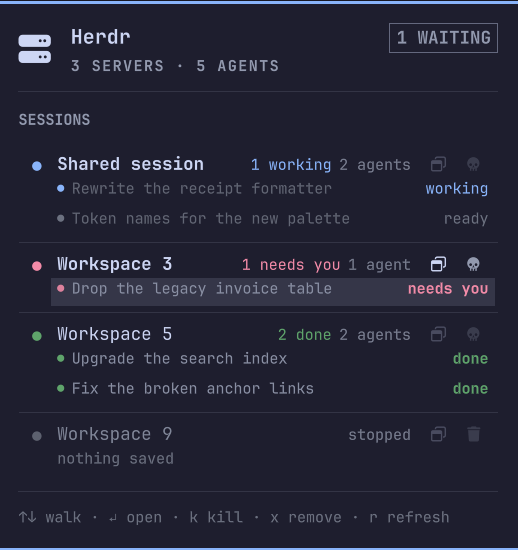
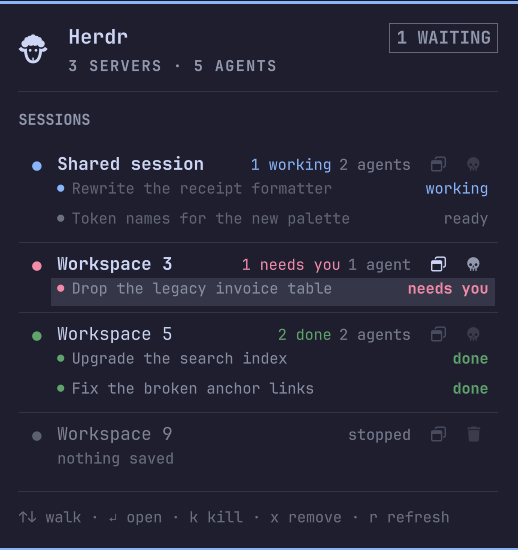
Put a sheep's head on the pill
nf-md-sheep in place of the server glyph, in the bar and at the head of the
panel: the thing being herded, rather than the machine running it. Past the
BMP, so it is written as a surrogate pair the way iconKill already was, and
the property and id are iconHerd/herdIcon now that neither is about a server.

The badge keeps the placement it had. It takes a bite out of the sheep's ear
where it only clipped a corner of the old rectangle, and that reads fine.

Screenshots reshot on Catppuccin to match.

Changed region(s): [[0.0309, 0.0309, 0.3089, 0.1545], [0.3707, 0.0927, 0.556, 0.1545]]

diff --git a/Panel.qml b/Panel.qml
@@ -44,7 +44,10 @@ Panel {
   readonly property string script:
     Qt.resolvedUrl("bin/herdr-sessions").toString().replace(/^file:\/\//, "")
 
-  readonly property string iconServer: "\uF233"
+  // nf-md-sheep, U+F0CC6: the herd, rather than the machine running it. Past
+  // the point where a four-digit `\u` escape reaches, so it is written as its
+  // surrogate pair for the same reason iconKill below is.
+  readonly property string iconHerd: "\uDB83\uDCC6"
   readonly property string iconDot: "\uF111"
   readonly property string iconOpen: "\uF2D2"
   readonly property string iconTrash: "\uF1F8"
@@ -711,9 +714,9 @@ Panel {
     iconComponent: Component {
       Item {
         Text {
-          id: serverIcon
+          id: herdIcon
           anchors.centerIn: parent
-          text: root.iconServer
+          text: root.iconHerd
           textFormat: Text.PlainText
           font.family: root.fontFamily
           font.pixelSize: Style.bar.iconFont
@@ -730,9 +733,9 @@ Panel {
         // exists to say how many as much as it says which colour.
         Rectangle {
           id: badge
-          anchors.horizontalCenter: serverIcon.horizontalCenter
+          anchors.horizontalCenter: herdIcon.horizontalCenter
           anchors.horizontalCenterOffset: Math.round(Style.bar.iconFont * 0.42)
-          anchors.verticalCenter: serverIcon.verticalCenter
+          anchors.verticalCenter: herdIcon.verticalCenter
           anchors.verticalCenterOffset: -Math.round(Style.bar.iconFont * 0.40)
           visible: root.reachable && root.runningCount > 0 && root.badgeActive
           height: Math.round(Style.bar.iconFont * 0.95)
@@ -828,7 +831,7 @@ Panel {
           iconComponent: Component {
             Text {
               textFormat: Text.PlainText
-              text: root.iconServer
+              text: root.iconHerd
               color: root.panelText
               font.family: root.fontFamily
               font.pixelSize: Style.font.display

diff --git a/README.md b/README.md
@@ -7,6 +7,8 @@ installs alongside the original rather than fighting it for the same slot.
 
 What I changed:
 
+- A sheep's head in place of the server glyph, in the bar and at the head of
+  the panel. It is a herd, so it should look like one.
 - A `PanelHero` header (glyph, name, server and agent counts, and a badge for
   the state worth reading before the list) in place of the one-line title.
 - Separators and a `SESSIONS` heading, so the list is a named section rather
